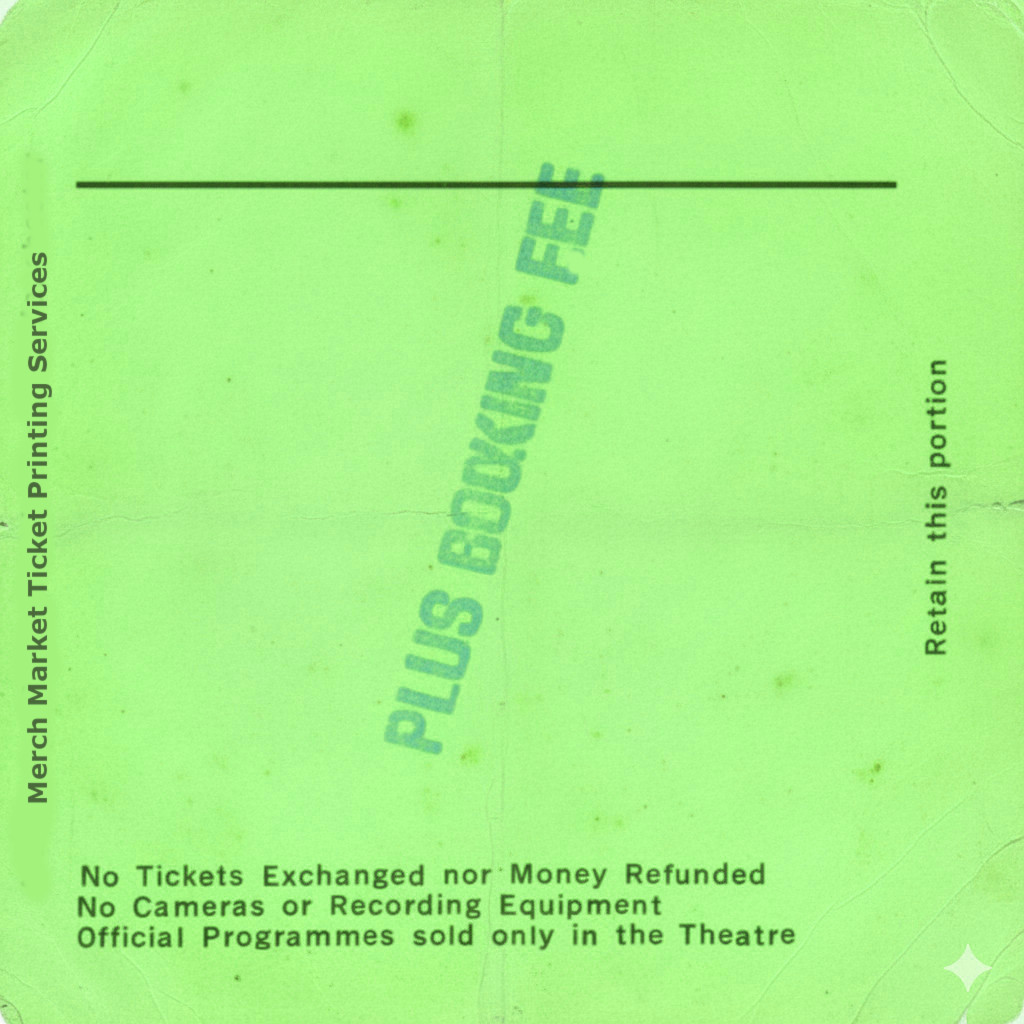
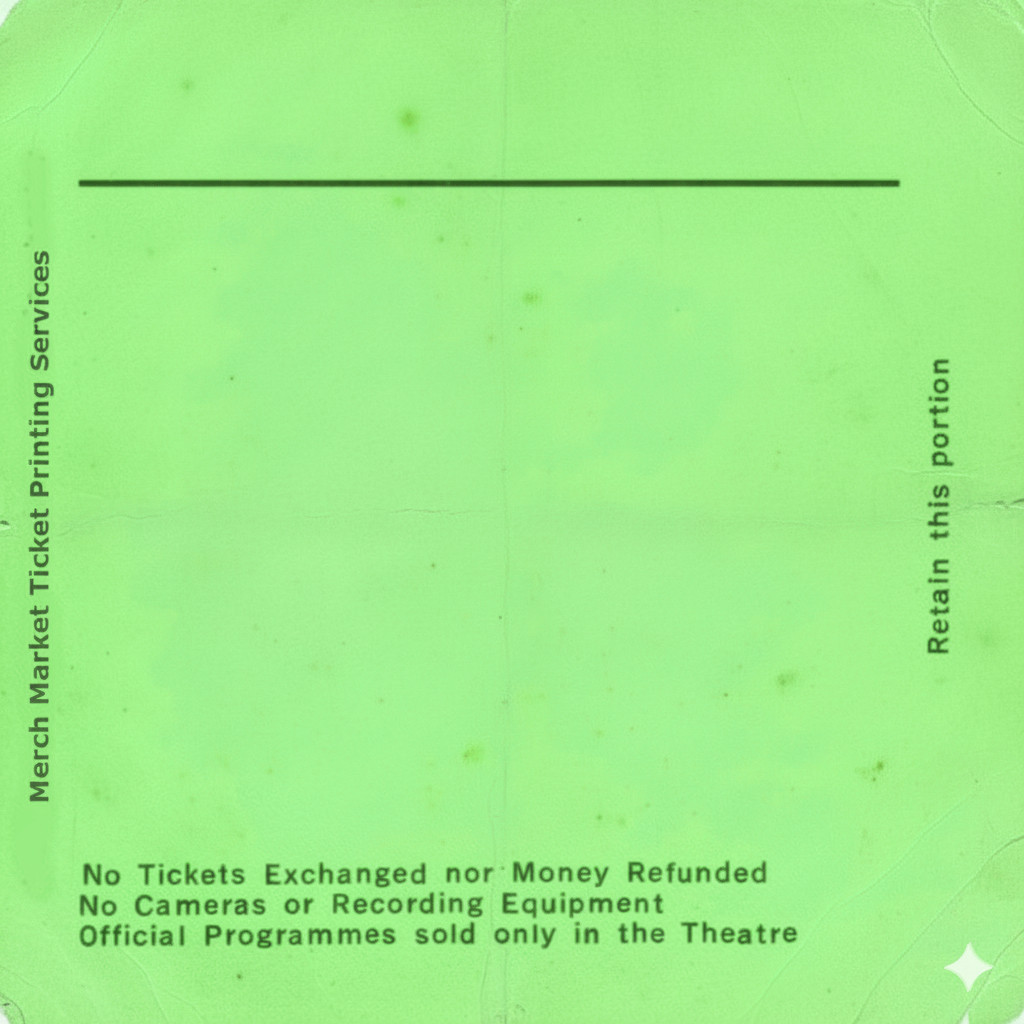
Booking fee customisable on background2

diff --git a/pages/gigticket.js b/pages/gigticket.js
@@ -209,14 +209,10 @@ function changeTemplate(i) {
     // Show/hide optional fields
     document.getElementById('price-row').hidden = document.getElementById('ticket-price-' + i) === null;
     document.getElementById('address-row').hidden = document.getElementById('ticket-address-' + i) === null;
-    document.getElementById('booking-fee-row').hidden = currentTemplate === 2;
 
     // Specific changes for background 6
     if (currentTemplate === 6) {
         document.getElementById('ticket-band-name-6').style.fontFamily = window.getComputedStyle(document.getElementById('font21')).fontFamily;
-    } else if (currentTemplate === 2) {
-        document.getElementById('ticket-fee').style.display = 'none';
-        document.getElementById('show-booking-fee').checked = false;
     }
     
     document.getElementById('promoter-row').hidden = currentTemplate === 6;
